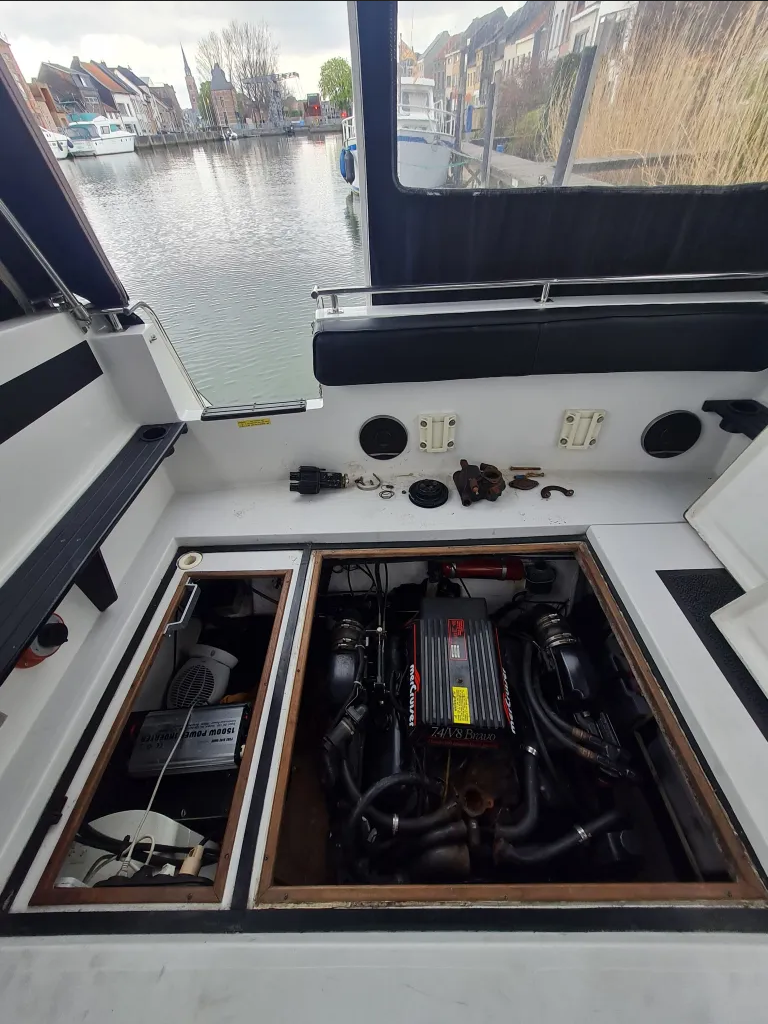
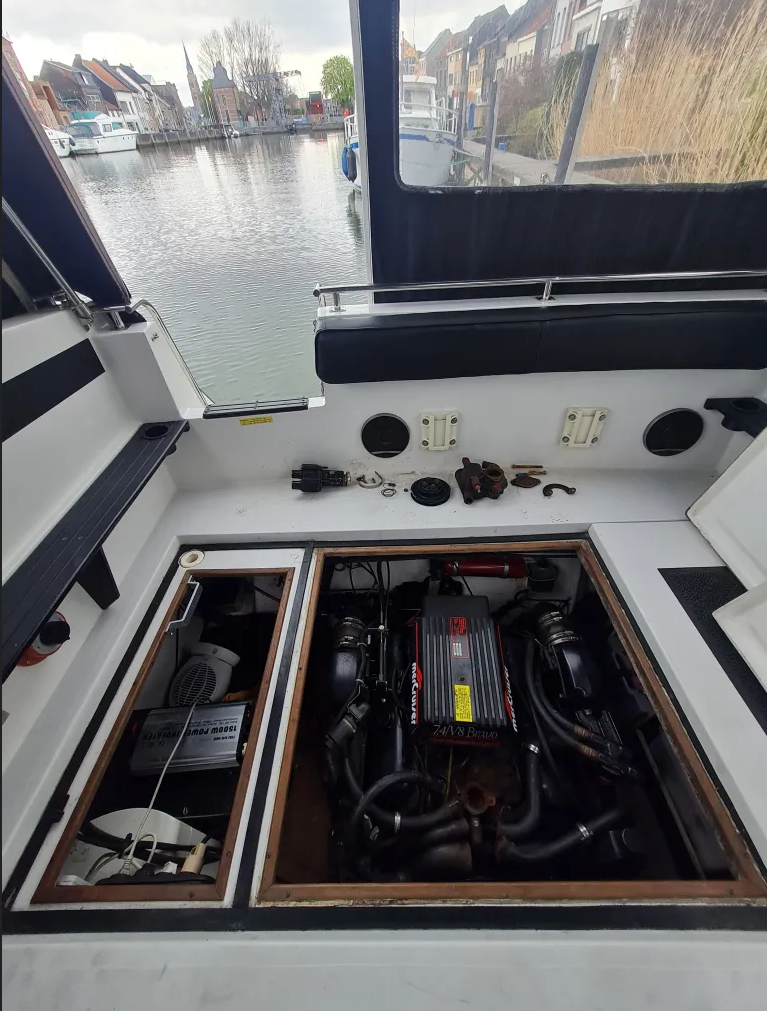
Compress images to index and services pages

diff --git a/src/content/pages/bootonderhoud.html b/src/content/pages/bootonderhoud.html
@@ -1,7 +1,7 @@
 ---
 title: 'Bootonderhoud en diagnoses'
 description: 'Bootonderhoud is zeer belangrijk om de optimale prestatie van uw motor te blijven garanderen.'
-preloadImg: '/assets/images/cabinets2.jpg'
+preloadImg: '/assets/images/pages/onderhoud/onderhoud.webp'
 permalink: 'bootonderhoud-en-diagnoses/'
 eleventyNavigation:
     parent: Diensten
@@ -24,10 +24,10 @@ eleventyNavigation:
     <h1 id="home-h">Bootonderhoud en diagnoses</h1>
     <picture>
         <!-- preloadImg: '/assets/images/cabinets2.jpg' -->
-        <source media="(max-width: 600px)" srcset="/assets/images/onderhoud.jpg">
-        <source media="(min-width: 601px)" srcset="/assets/images/onderhoud.jpg">
-        <img aria-hidden="true" decoding="async" src="/assets/images/onderhoud.jpg" alt="kitchen cabinets"
-            loading="eager" width="2500" height="1667">
+        <source media="(max-width: 600px)" srcset="/assets/images/pages/onderhoud/onderhoud.webp">
+        <source media="(min-width: 601px)" srcset="/assets/images/pages/onderhoud/onderhoud.webp">
+        <img aria-hidden="true" decoding="async" src="/assets/images/pages/onderhoud/onderhoud.webp"
+            alt="kitchen cabinets" loading="eager" width="2500" height="1667">
     </picture>
 
 </section>
@@ -43,11 +43,11 @@ eleventyNavigation:
             <h2 class="cs-title">Bootonderhoud en Diagnoseservice</h2>
             <picture class="cs-picture">
                 <!--Mobile Image-->
-                <source media="(max-width: 600px)" srcset="/assets/images/KeybyBrabus1.png">
+                <source media="(max-width: 600px)" srcset="/assets/images/pages/onderhoud/KeybyBrabus1.png">
                 <!--Tablet and above Image-->
-                <source media="(min-width: 601px)" srcset="/assets/images/KeybyBrabus1.png">
-                <img loading="lazy" decoding="async" src="/assets/images/KeybyBrabus1.png" alt="Keyby" width="605"
-                    height="690">
+                <source media="(min-width: 601px)" srcset="/assets/images/pages/onderhoud/KeybyBrabus1.png">
+                <img loading="lazy" decoding="async" src="/assets/images/pages/onderhoud/KeybyBrabus1.png" alt="Keyby"
+                    width="605" height="690">
             </picture>
         </div>
         <div class="cs-wrapper">
@@ -128,8 +128,9 @@ eleventyNavigation:
                     </button>
                     <p class="cs-item-p">
                         Alle accessoires kunnen we verkopen en installeren. Van Simrad schermen tot
-                        nieuwe speakers van het merk Fusion en Hertz of slimme batterij systemen. Zie onze <a href="/boot-accessoires">accessoirespagina</a>
-                         voor meer informatie.
+                        nieuwe speakers van het merk Fusion en Hertz of slimme batterij systemen. Zie onze <a
+                            href="/boot-accessoires">accessoirespagina</a>
+                        voor meer informatie.
                     </p>
                 </li>
             </ul>
@@ -144,9 +145,11 @@ eleventyNavigation:
 <section id="RPsbsr-74">
     <div class="cs-container">
         <picture class="cs-picture">
-            <source media="(max-width: 600px)" srcset="/assets/images/pages/onderhoud/onderhoud_buitenboordmotoren.jpg">
-            <source media="(min-width: 601px)" srcset="/assets/images/pages/onderhoud/onderhoud_buitenboordmotoren.jpg">
-            <img loading="lazy" decoding="async" src="/assets/images/pages/onderhoud/onderhoud_buitenboordmotoren.jpg"
+            <source media="(max-width: 600px)"
+                srcset="/assets/images/pages/onderhoud/onderhoud_buitenboordmotoren.webp">
+            <source media="(min-width: 601px)"
+                srcset="/assets/images/pages/onderhoud/onderhoud_buitenboordmotoren.webp">
+            <img loading="lazy" decoding="async" src="/assets/images/pages/onderhoud/onderhoud_buitenboordmotoren.webp"
                 alt="Buitenboordmotoren" width="500" height="552" aria-hidden="true">
         </picture>
         <div class="cs-content">
@@ -168,9 +171,11 @@ eleventyNavigation:
 <section id="RPsbs-74">
     <div class="cs-container">
         <picture class="cs-picture">
-            <source media="(max-width: 600px)" srcset="/assets/images/pages/onderhoud/onderhoud_binnenboordmotoren.jpg">
-            <source media="(min-width: 601px)" srcset="/assets/images/pages/onderhoud/onderhoud_binnenboordmotoren.jpg">
-            <img loading="lazy" decoding="async" src="/assets/images/pages/onderhoud/onderhoud_binnenboordmotoren.jpg"
+            <source media="(max-width: 600px)"
+                srcset="/assets/images/pages/onderhoud/onderhoud_binnenboordmotoren.webp">
+            <source media="(min-width: 601px)"
+                srcset="/assets/images/pages/onderhoud/onderhoud_binnenboordmotoren.webp">
+            <img loading="lazy" decoding="async" src="/assets/images/pages/onderhoud/onderhoud_binnenboordmotoren.webp"
                 alt="Binnenboordmotoren" width="500" height="552" aria-hidden="true">
         </picture>
         <div class="cs-content">

diff --git a/src/content/pages/stalling.html b/src/content/pages/stalling.html
@@ -1,7 +1,7 @@
 ---
 title: 'Wintestalling'
 description: 'Brabus Boats biedt boten winterstalling aan. Wij zijn voorzien van een verwarmde loods van 600m² met camerabewaking.'
-preloadImg: '/assets/images/accesories.jpg'
+preloadImg: '/assets/images/accesories.webp'
 permalink: 'winterstalling/'
 eleventyNavigation:
     key: Winterstalling
@@ -25,9 +25,9 @@ eleventyNavigation:
 <section id="int-hero">
     <h1 id="home-h">Winterstalling</h1>
     <picture class="cs-picture">
-        <source media="(max-width: 600px)" srcset="/assets/images/accesories.jpg">
-        <source media="(min-width: 601px)" srcset="/assets/images/accesories.jpg">
-        <img aria-hidden="true" decoding="async" src="/assets/images/accesories.jpg" alt="new home" width="2500"
+        <source media="(max-width: 600px)" srcset="/assets/images/accesories.webp">
+        <source media="(min-width: 601px)" srcset="/assets/images/accesories.webp">
+        <img aria-hidden="true" decoding="async" src="/assets/images/accesories.webp" alt="fibrafort" width="2500"
             height="1667" loading="eager">
     </picture>
 </section>
@@ -117,30 +117,30 @@ eleventyNavigation:
             <li class="cs-item">
                 <picture class="cs-picture">
                     <!--Mobile Image-->
-                    <source media="(max-width: 600px)" srcset="/assets/images/pages/stalling/stalling.png">
+                    <source media="(max-width: 600px)" srcset="/assets/images/pages/stalling/stalling.webp">
                     <!--Tablet and above Image-->
-                    <source media="(min-width: 601px)" srcset="/assets/images/pages/stalling/stalling.png">
-                    <img loading="lazy" decoding="async" src="/assets/images/pages/stalling/stalling.png"
+                    <source media="(min-width: 601px)" srcset="/assets/images/pages/stalling/stalling.webp">
+                    <img loading="lazy" decoding="async" src="/assets/images/pages/stalling/stalling.webp"
                         alt="Bimini top" width="413" height="240" aria-hidden="true">
                 </picture>
             </li>
             <li class="cs-item">
                 <picture class="cs-picture">
                     <!--Mobile Image-->
-                    <source media="(max-width: 600px)" srcset="/assets/images/pages/stalling/stalling1.png">
+                    <source media="(max-width: 600px)" srcset="/assets/images/pages/stalling/stalling1.webp">
                     <!--Tablet and above Image-->
-                    <source media="(min-width: 601px)" srcset="/assets/images/pages/stalling/stalling1.png">
-                    <img loading="lazy" decoding="async" src="/assets/images/pages/stalling/stalling1.png"
+                    <source media="(min-width: 601px)" srcset="/assets/images/pages/stalling/stalling1.webp">
+                    <img loading="lazy" decoding="async" src="/assets/images/pages/stalling/stalling1.webp"
                         alt="Inbouw console" width="413" height="240" aria-hidden="true">
                 </picture>
             </li>
             <li class="cs-item">
                 <picture class="cs-picture">
                     <!--Mobile Image-->
-                    <source media="(max-width: 600px)" srcset="/assets/images/pages/stalling/stalling2.png">
+                    <source media="(max-width: 600px)" srcset="/assets/images/pages/stalling/stalling2.webp">
                     <!--Tablet and above Image-->
-                    <source media="(min-width: 601px)" srcset="/assets/images/pages/stalling/stalling2.png">
-                    <img loading="lazy" decoding="async" src="/assets/images/pages/stalling/stalling2.png"
+                    <source media="(min-width: 601px)" srcset="/assets/images/pages/stalling/stalling2.webp">
+                    <img loading="lazy" decoding="async" src="/assets/images/pages/stalling/stalling2.webp"
                         alt="Navigatie" width="413" height="240" aria-hidden="true">
                 </picture>
             </li>

diff --git a/src/index.html b/src/index.html
@@ -1,7 +1,8 @@
 ---
 title: 'Boten verkoop en service in Temse, Belgie'
-description: 'Wij zijn gespecialiseerd in verkoop, onderhoud, winterstalling, boottrailers, Re-Powering motoren en Boot accessoires. '
-preloadImg: '/assets/images/hero.png'
+description: 'Wij zijn gespecialiseerd in verkoop, onderhoud, winterstalling, boottrailers, Re-Powering motoren en Boot
+accessoires. '
+preloadImg: '/assets/images/hero1.webp'
 permalink: '/'
 eleventyNavigation:
     key: Home
@@ -53,9 +54,9 @@ eleventyNavigation:
 
     <!-- Background Image -->
     <picture class="cs-picture">
-        <source media="(max-width: 1000px)" srcset="/assets/images/keyby_in_boat_hero.JPG">
-        <source media="(min-width: 1001px)" srcset="/assets/images/hero1.png">
-        <img decoding="async" src="/assets/images/hero1.png" alt="Keyby and boat" width="100%" height="auto"
+        <source media="(max-width: 1000px)" srcset="/assets/images/keyby_in_boat_hero.webp">
+        <source media="(min-width: 1001px)" srcset="/assets/images/hero1.webp">
+        <img decoding="async" src="/assets/images/hero1.webp" alt="Keyby and boat" width="100%" height="auto"
             aria-hidden="true">
     </picture>
 </section>
@@ -72,9 +73,9 @@ eleventyNavigation:
         <div class="cs-image-group">
             <!--Big Background Image-->
             <picture class="cs-picture">
-                <source media="(max-width: 600px)" srcset="/assets/images/about.jpg">
-                <source media="(min-width: 601px)" srcset="/assets/images/about.jpg">
-                <img loading="lazy" decoding="async" src="/assets/images/about.jpg" alt="Brabus Boats" width="521"
+                <source media="(max-width: 600px)" srcset="/assets/images/about.webp">
+                <source media="(min-width: 601px)" srcset="/assets/images/about.webp">
+                <img loading="lazy" decoding="async" src="/assets/images/about.webp" alt="Brabus Boats" width="521"
                     height="672" aria-hidden="true">
             </picture>
         </div>

diff --git a/src/content/pages/repower.html b/src/content/pages/repower.html
@@ -1,7 +1,7 @@
 ---
 title: 'Re-power bootmotoren'
 description: 'Re-power bootmotoren - verbeter uw Vaarervaring met Efficiënte en Op Maat Gemaakte Motoroplossingen'
-preloadImg: '/assets/images/pages/repower/repowering_motoren.jp'
+preloadImg: '/assets/images/pages/repower/repowering_motoren.webp'
 permalink: 'repower-bootmotoren/'
 eleventyNavigation:
     key: Re-power bootmotoren
@@ -25,9 +25,9 @@ eleventyNavigation:
 <section id="int-hero">
     <h1 id="home-h">Re-power bootmotoren</h1>
     <picture class="cs-picture">
-        <source media="(max-width: 600px)" srcset="/assets/images/pages/repower/repowering_motoren.jpg">
-        <source media="(min-width: 601px)" srcset="/assets/images/pages/repower/repowering_motoren.jpg">
-        <img aria-hidden="true" decoding="async" src="/assets/images/pages/repower/repowering_motoren.jpg"
+        <source media="(max-width: 600px)" srcset="/assets/images/pages/repower/repowering_motoren.webp">
+        <source media="(min-width: 601px)" srcset="/assets/images/pages/repower/repowering_motoren.webp">
+        <img aria-hidden="true" decoding="async" src="/assets/images/pages/repower/repowering_motoren.webp"
             alt="new home" width="2500" height="1667" loading="eager">
     </picture>
 </section>

diff --git a/src/_includes/components/featured-post.html b/src/_includes/components/featured-post.html
@@ -7,20 +7,16 @@
   <div class="blog-featured-group">
     <span class="blog-header">Featured Posts</span>
     {%- for post in collections.featured | reverse -%}
-      <a class="blog-feature" href="{{ post.url }}">
-        <picture class="blog-featureImage">
-          <img
-                    src="{{ post.data.image }}"
-                    alt="{{ post.data.imageAlt }}"
-                    width="60"
-                    height="60"
-                    decoding="async">
-        </picture>
-        <div class="content-group">
-          <h3 class="feature-h3">{{ post.data.title }}</h3>
-          <span class="feature-date">{{ post.date | postDate }}</span>
-        </div>
-      </a>
+    <a class="blog-feature" href="{{ post.url }}">
+      <picture class="blog-featureImage">
+        <img src="{{ post.data.image }}" alt="{{ post.data.imageAlt }}" loading="lazy" width="60" height="60"
+          decoding="async">
+      </picture>
+      <div class="content-group">
+        <h3 class="feature-h3">{{ post.data.title }}</h3>
+        <span class="feature-date">{{ post.date | postDate }}</span>
+      </div>
+    </a>
     {%- endfor -%}
   </div>
   <!--Add anything else in the sidebar below-->

diff --git a/src/content/pages/accesories.html b/src/content/pages/accesories.html
@@ -1,7 +1,7 @@
 ---
 title: 'Boot accessoires'
 description: 'Flexiteak vloeren, digitalisering en muziekinstallaties, towers, bootzeilen en covers, polyesterwerken'
-preloadImg: '/assets/images/accesories.jpg'
+preloadImg: '/assets/images/accesories.webp'
 permalink: 'boot-accessoires/'
 eleventyNavigation:
     key: Boot accessoires
@@ -25,8 +25,8 @@ eleventyNavigation:
     <h1 id="home-h">Boot accessoires</h1>
     <picture class="cs-picture">
         <source media="(max-width: 600px)" srcset="/assets/images/Untitled3.jpeg">
-        <source media="(min-width: 601px)" srcset="/assets/images/accesories.jpg">
-        <img aria-hidden="true" decoding="async" src="/assets/images/accesories.jpg" alt="new home" width="2500"
+        <source media="(min-width: 601px)" srcset="/assets/images/accesories.webp">
+        <img aria-hidden="true" decoding="async" src="/assets/images/accesories.webp" alt="fibrafort" width="2500"
             height="1667" loading="eager">
     </picture>
 </section>

diff --git a/src/_includes/components/cta-boat.html b/src/_includes/components/cta-boat.html
@@ -17,9 +17,9 @@
     </div>
     <!-- Background Image-->
     <picture class="cs-picture">
-        <source media="(max-width: 600px)" srcset="/assets/images/cta.jpg">
-        <source media="(min-width: 601px)" srcset="/assets/images/cta.jpg">
-        <img loading="lazy" decoding="async" src="/assets/images/cta.jpg" alt="cabinets" width="1920" height="1280"
+        <source media="(max-width: 600px)" srcset="/assets/images/cta.webp">
+        <source media="(min-width: 601px)" srcset="/assets/images/cta.webp">
+        <img loading="lazy" decoding="async" src="/assets/images/cta.webp" alt="port" width="1920" height="1280"
             aria-hidden="true">
     </picture>
 </section>

diff --git a/src/_includes/components/cta.html b/src/_includes/components/cta.html
@@ -17,9 +17,9 @@
     </div>
     <!-- Background Image-->
     <picture class="cs-picture">
-        <source media="(max-width: 600px)" srcset="/assets/images/cta.jpg">
-        <source media="(min-width: 601px)" srcset="/assets/images/cta.jpg">
-        <img loading="lazy" decoding="async" src="/assets/images/cta.jpg" alt="cabinets" width="1920" height="1280"
+        <source media="(max-width: 600px)" srcset="/assets/images/cta.webp">
+        <source media="(min-width: 601px)" srcset="/assets/images/cta.webp">
+        <img loading="lazy" decoding="async" src="/assets/images/cta.webp" alt="port" width="1920" height="1280"
             aria-hidden="true">
     </picture>
 </section>
